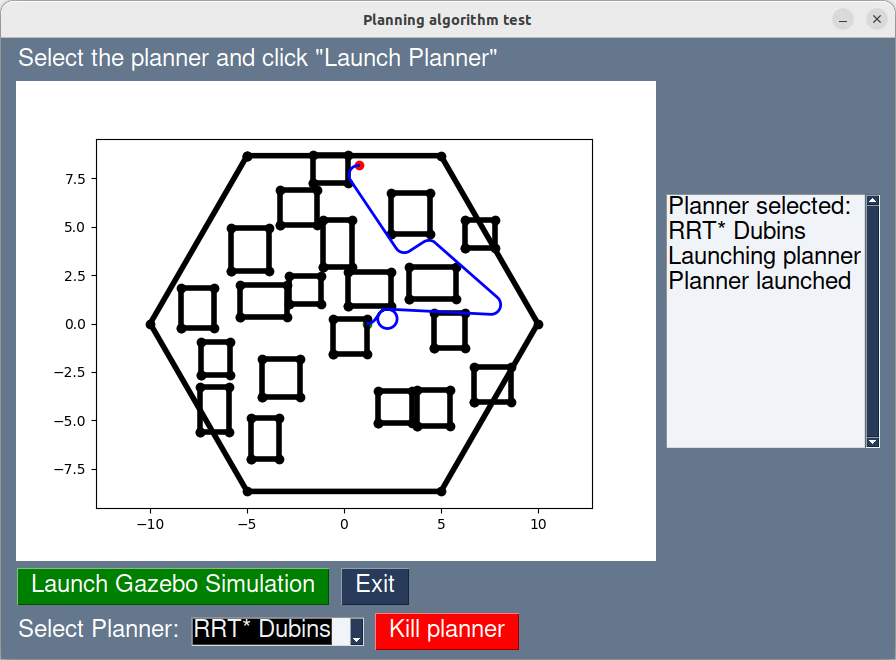
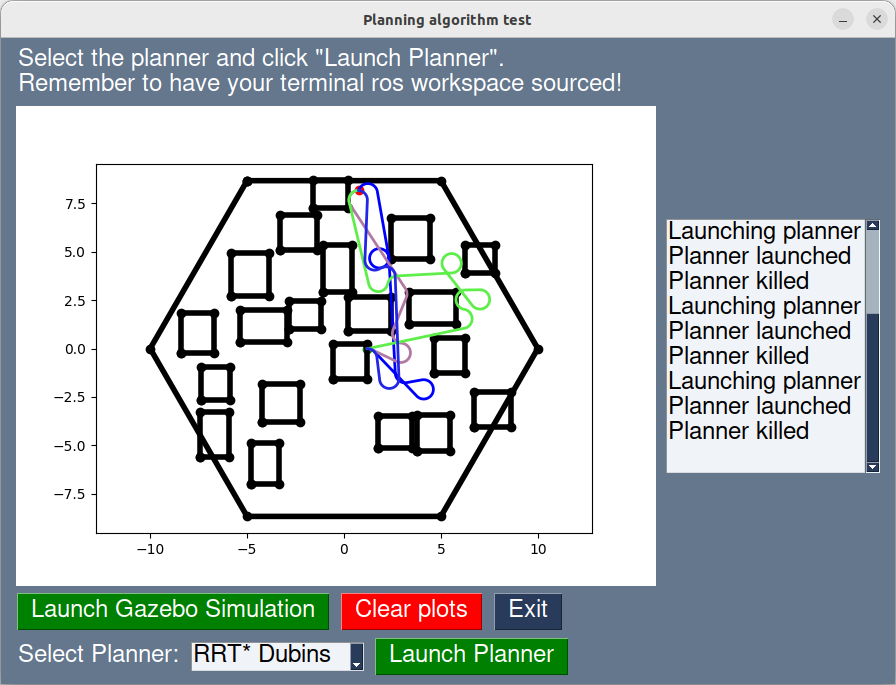
Clear ctrl+c end tentative

diff --git a/main.py b/main.py
@@ -1,12 +1,13 @@
-import time
 import os
-import subprocess
 import sys
-import numpy as np
 import signal
-import PySimpleGUI as sg
+import subprocess
 import psutil
-from plotter import plot_map_and_path
+import time
+
+import numpy as np
+import PySimpleGUI as sg
+from plotter import plot_map_and_path, update_figure
 from ament_index_python.packages import get_package_share_directory as share_dir
 
 
@@ -19,20 +20,20 @@ matplotlib.use('TkAgg')
 
 DEBUG_GRAPHICS = False  # wether to activate buttons effect or not
 CMD_SIMULATION = "ros2 launch projects victims.launch.py"
-CMD_PLANNER = "ros2 launch planner rrt_star_dubins.launch.py"
 
 # sg.Print('Re-routing the stdout', do_not_reroute_stdout=False)
 debug = sg.Print
 
 
+
 def draw_figure(canvas):
     # plot map
     canvas.delete("all")
-    figure = plot_map_and_path()
-    figure_canvas_agg = FigureCanvasTkAgg(figure, canvas)
+    current_ax, current_fig  = plot_map_and_path()
+    figure_canvas_agg = FigureCanvasTkAgg(current_fig, canvas)
     figure_canvas_agg.draw()
     figure_canvas_agg.get_tk_widget().pack(side='top', fill='both', expand=1)
-    return figure_canvas_agg
+    return current_ax,current_fig, figure_canvas_agg
 
 def delete_fig_agg(fig_agg):
     fig_agg.get_tk_widget().forget()
@@ -48,13 +49,27 @@ def kill_gazebo():
             print('Killing gzclient')
             proc.kill()
 
+def kill_process(p):
+        os.killpg(os.getpgid(p.pid), signal.SIGKILL)
+        kill_gazebo()
+
+def signal_handler(sig, frame):
+    if 'p0' in locals():
+        kill_process(p0)
+        kill_gazebo()
+    if 'p1' in locals():
+        kill_process(p1)
+    kill_gazebo()
+    sys.exit(0)
 
 def main():
-    CMD_PLANNER = "ros2 launch planner rrt_star_dubins.launch.py"
-
-    # os.system(". ~/shelfino_ws/install/setup.zsh")
-    # sg.Print('Re-routing the stdout', do_not_reroute_stdout=False)
-    layout = [[sg.Text('Select the planner and click "Launch Planner" ', key='title')],
+    # CMD_PLANNER = "ros2 launch planner rrt_star_dubins.launch.py"
+    
+    # intercept ctrl+c
+    signal.signal(signal.SIGINT, signal_handler) 
+       
+    layout = [[sg.Text('Select the planner and click "Launch Planner". \nRemember to have' +
+                       ' your terminal ros workspace sourced!', key='title')],
               [sg.Canvas(key='-CANVAS-', size=(500, 400)),
                sg.Output(size=(15, 10))],          # an output area where all print output will go
               [sg.Button('Launch Gazebo Simulation', key='sim', button_color=(
@@ -62,34 +77,41 @@ def main():
                sg.Button('Exit'),],
               [sg.Text('Select Planner:'),
                sg.Drop(values=['RRT', 'RRT*', 'RRT* Dubins', 'Voronoi'],
-                       key='dropdown', enable_events=True, default_value='RRT* Dubins'),
-               sg.Button('Launch Planner', key='planner', button_color=('white', 'green'), disabled=False)]]    # a couple of buttons
+                       key='dropdown', enable_events=True),
+               sg.Button('Launch Planner', key='planner', button_color=('white', 'green'), disabled=True)]]    # a couple of buttons
     window = sg.Window('Planning algorithm test', layout, font='Helvetica 18')
 
     env_running = False
     waiting_result = False
     is_planning = False
     fig_canvas_agg = None
+    first_map_plot = True
     try:
         while True:
 
             if waiting_result:
-                while (not os.path.exists(share_dir('planner') + '/data/dubins_path.txt')):
-                    pass
-                fig_canvas_agg = draw_figure(window['-CANVAS-'].TKCanvas)
-                waiting_result = False
-                window['clear'].update(disabled=False)
-                window.Refresh()
-
+                if first_map_plot:
+                    while (not os.path.exists(share_dir('planner') + '/data/dubins_path.txt')):
+                        pass
+                    current_ax, current_fig, fig_canvas_agg = draw_figure(window['-CANVAS-'].TKCanvas)
+                    waiting_result = False
+                    window['clear'].update(disabled=False)
+                    first_map_plot = False
+                else:
+                    while (not os.path.exists(share_dir('planner') + '/data/dubins_path.txt')):
+                        pass
+                    current_ax,current_fig = update_figure(current_ax, current_fig)
+                    waiting_result = False
+                    
             event, values = window.Read()
             # Show planning results if available
 
             if event in (None, 'Exit'):         # checks if user wants to exit
                 if (env_running):
-                    os.killpg(os.getpgid(p0.pid), signal.SIGTERM)
+                    kill_process(p0)
                     kill_gazebo()
-                if 'p2' in locals():
-                    os.killpg(os.getpgid(p2.pid), signal.SIGTERM)
+                if 'p1' in locals():
+                    kill_planner(p1)
                 print('Exiting')
                 break
             # Planners selection:
@@ -98,6 +120,7 @@ def main():
                 if fig_canvas_agg is not None:
                     delete_fig_agg(fig_canvas_agg)
                     window['clear'].update(disabled=True)
+                    first_map_plot = True
                 
             if event == 'dropdown':
                 print("Planner selected: " + str(values['dropdown']))
@@ -129,8 +152,13 @@ def main():
                     window['sim'].update(button_color=('white', 'green'))
                     kill_gazebo()
                     if not DEBUG_GRAPHICS:
-                        os.killpg(os.getpgid(p0.pid), signal.SIGTERM)
+                        kill_process(p0)
                     env_running = False
+                    # clear canvas
+                    if fig_canvas_agg is not None:
+                        delete_fig_agg(fig_canvas_agg)
+                        window['clear'].update(disabled=True)
+                        first_map_plot = True
                     print('Simulation killed')
                     continue
             # Planner button
@@ -156,7 +184,7 @@ def main():
                     window['planner'].update('Launch Planner')
                     window['planner'].update(button_color=('white', 'green'))
                     if not DEBUG_GRAPHICS:
-                        os.killpg(os.getpgid(p1.pid), signal.SIGTERM)
+                        kill_process(p1)
                     print('Planner killed')
                     waiting_result = False
                     is_planning = False
@@ -164,16 +192,21 @@ def main():
 
         window.Close()
     except Exception as e:
+        if 'p0' in locals():
+            kill_process(p0)
+            kill_gazebo()
+        if 'p1' in locals():
+            kill_process(p1)
         sg.popup_error_with_traceback(
             f'An error happened.  Here is the info:', e)
     # if env_running:
     #     p.kill()
-    #     os.killpg(os.getpgid(p.pid), signal.SIGTERM)
+    #     os.killpg(os.getpgid(p.pid), signal.SIGKILL)
+    if 'p0' in locals():
+        kill_process(p0)
+        kill_gazebo()
     if 'p1' in locals():
-        os.killpg(os.getpgid(p1.pid), signal.SIGTERM)
-    if 'p2' in locals():
-        os.killpg(os.getpgid(p2.pid), signal.SIGTERM)
-    kill_gazebo()
+        kill_process(p1)
 
 
 if __name__ == '__main__':

diff --git a/plotter.py b/plotter.py
@@ -4,10 +4,18 @@ import matplotlib
 import numpy as np
 from ament_index_python.packages import get_package_share_directory
 from shapely import wkt
+import time
+
+def update_figure(current_ax, current_fig):
+    time.sleep(0.5)
+    color = np.random.rand(3,)
+    path = np.loadtxt(str(get_package_share_directory('planner')) + '/data/dubins_path.txt', delimiter=',')
+    current_ax.plot(path[2:,0], path[2:,1], color=color, linewidth=2.0)
+    current_fig.canvas.draw()
+    return current_ax, current_fig
 
 def plot_map_and_path():
-    # clear current figure
-    # plt.clf()
+    time.sleep(0.5)
     path = np.loadtxt(str(get_package_share_directory('planner')) + '/data/dubins_path.txt', delimiter=',')
     start = path[0]
     end = path[1]
@@ -20,13 +28,12 @@ def plot_map_and_path():
         # plot holes for each polygon
         xh, yh = hole.xy
         ax.plot(xh, yh, '-ok', lw=4)
-        # plot the voronoi edges
+
     ax.scatter(start[0], start[1], marker='o', color='green')
     ax.scatter(end[0], end[1], marker='o', color='red')
     ax.plot(path[2:,0], path[2:,1], 'b-', linewidth=2.0)
     ax.axis("equal")
-    return fig
-    # plt.show()
+    return ax, fig
 
 
 if __name__ == "__main__":
